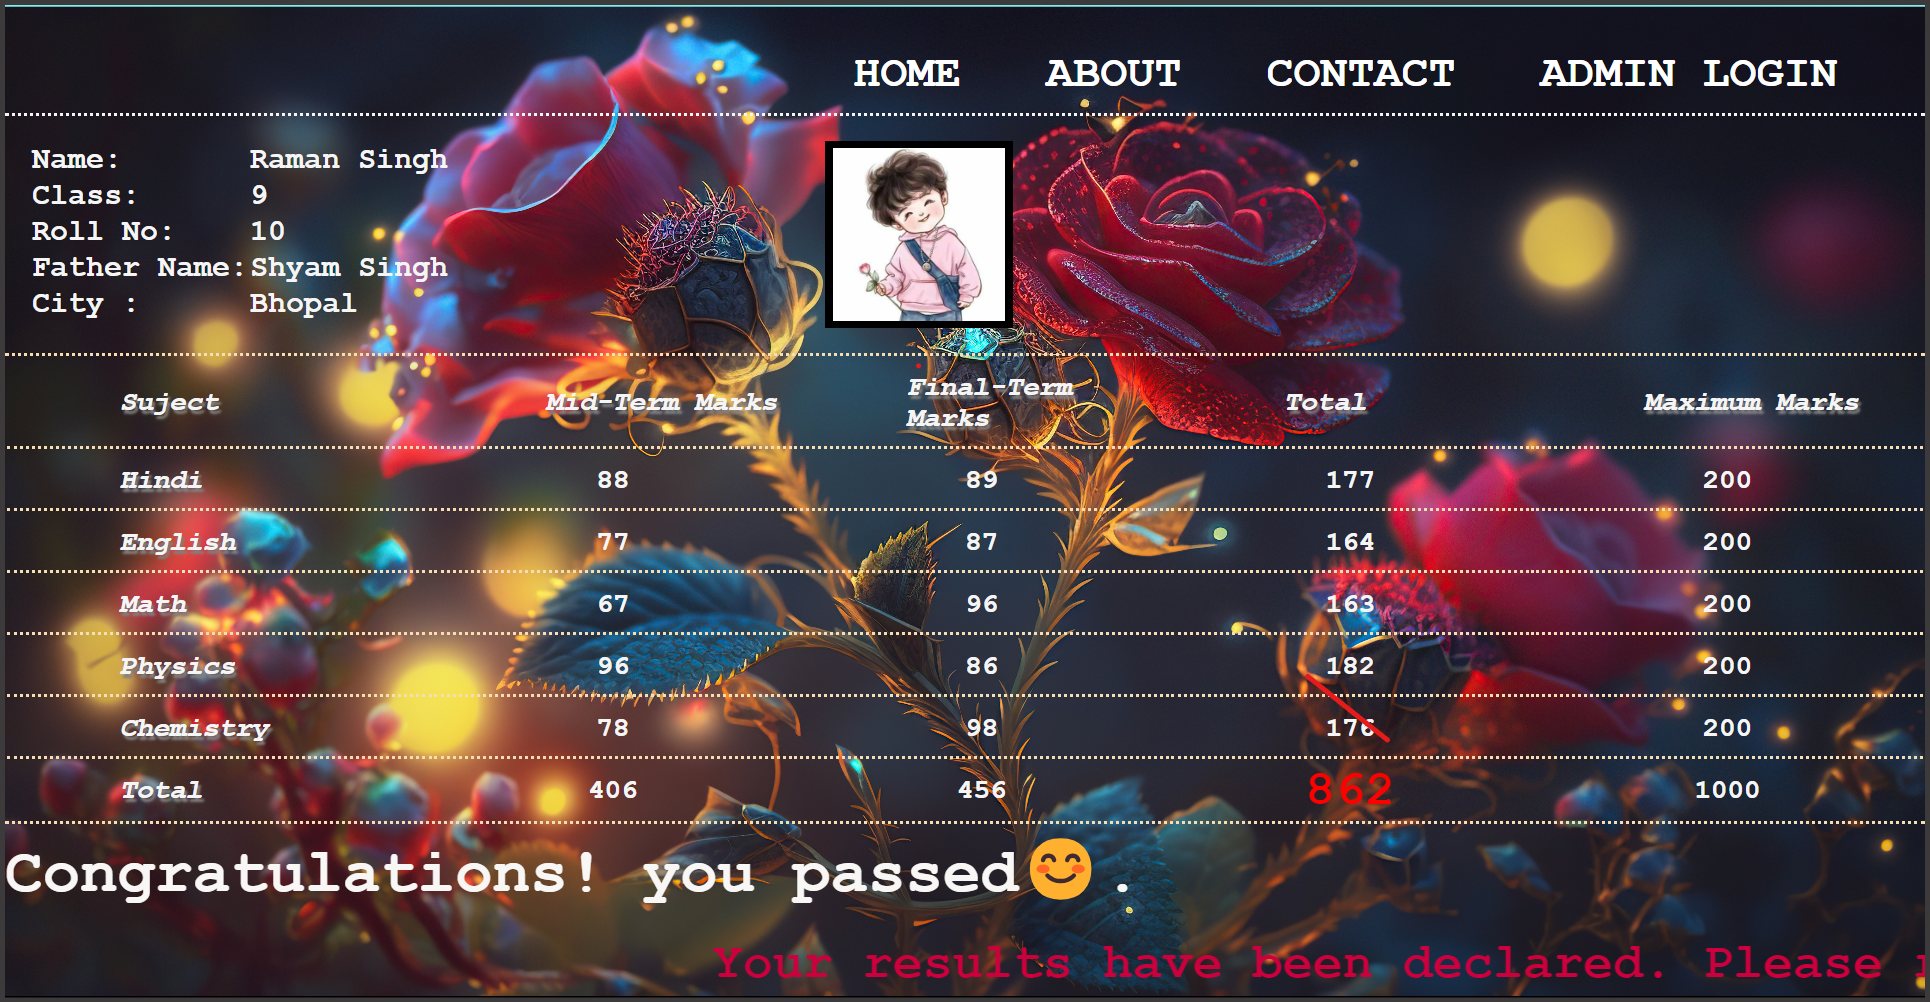
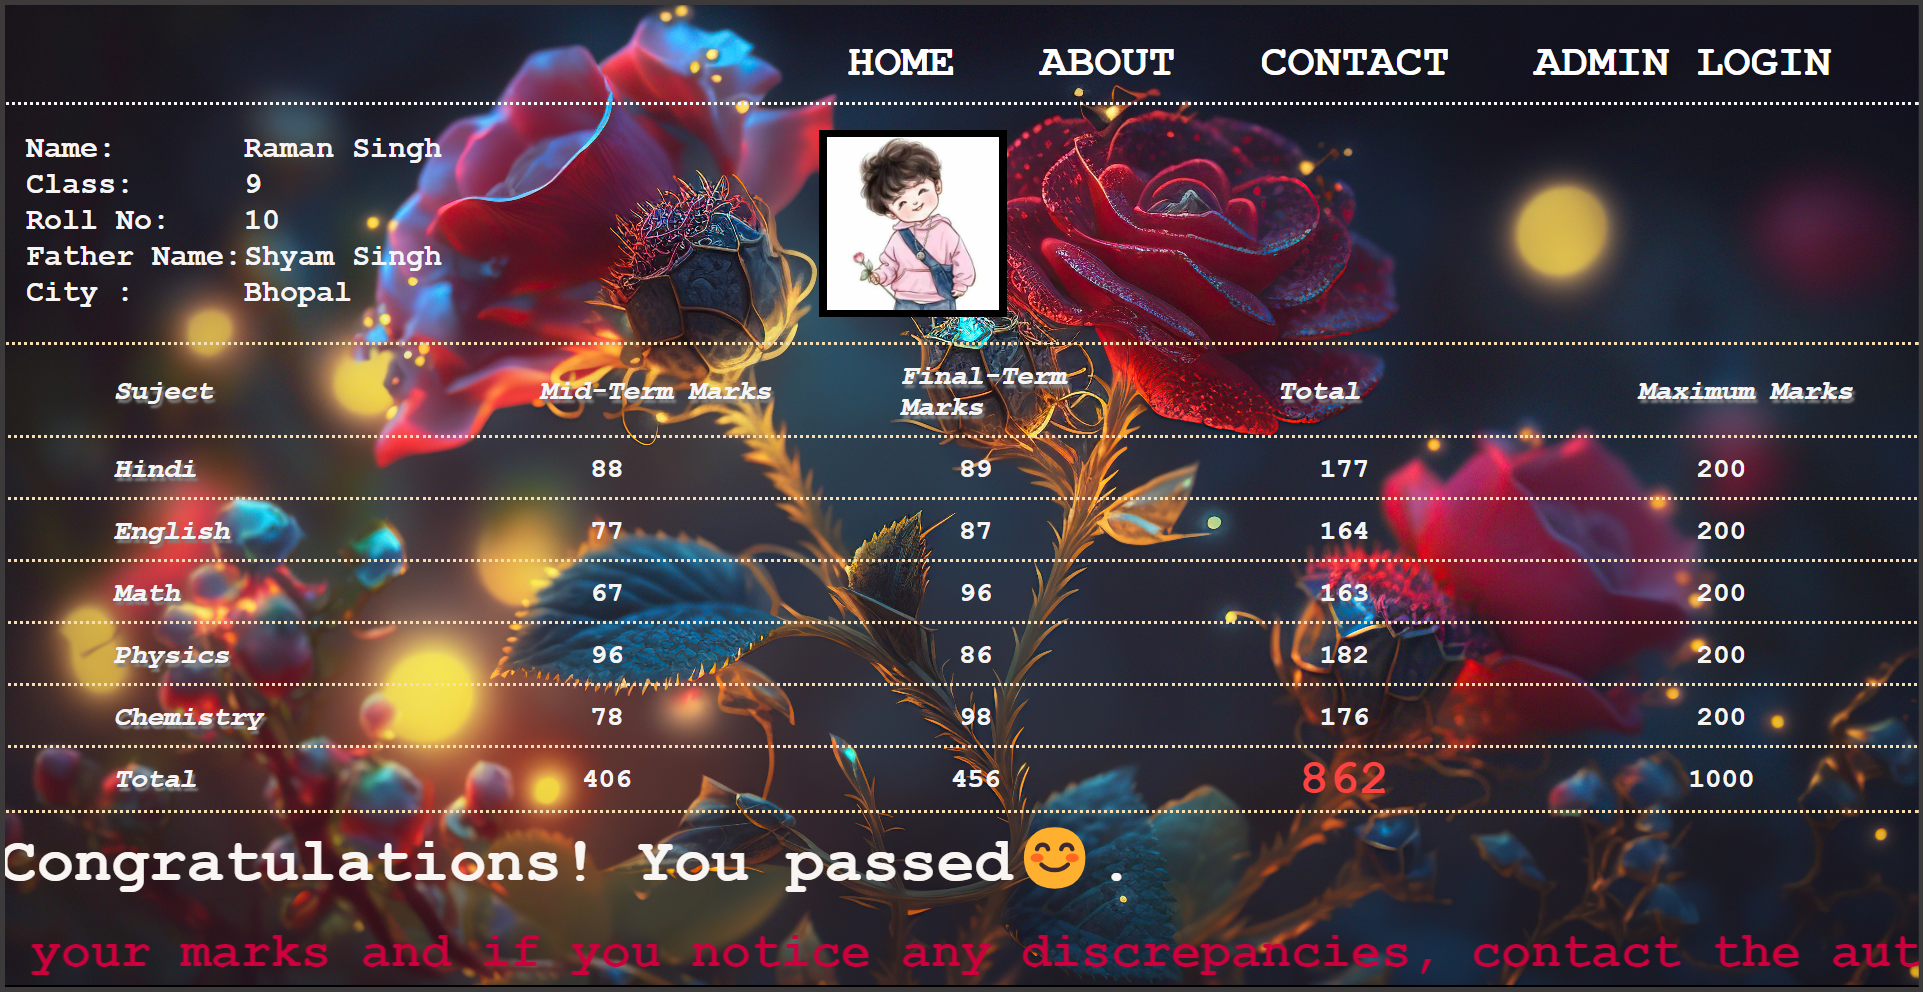
Updated Images

Changed region(s): [[0.0, 0.0, 0.9984, 1.0], [0.78, 0.25, 0.8424, 0.3125], [0.78, 0.1562, 0.8424, 0.2188]]

diff --git a/result.php b/result.php
@@ -134,7 +134,7 @@ if (isset($_POST['submit'])) {
                         }
                         else
                         {
-                            echo " Congratulations! you passed😊. ";
+                            echo " Congratulations! You passed😊. ";
                         }
                         ?>
                         </span>
